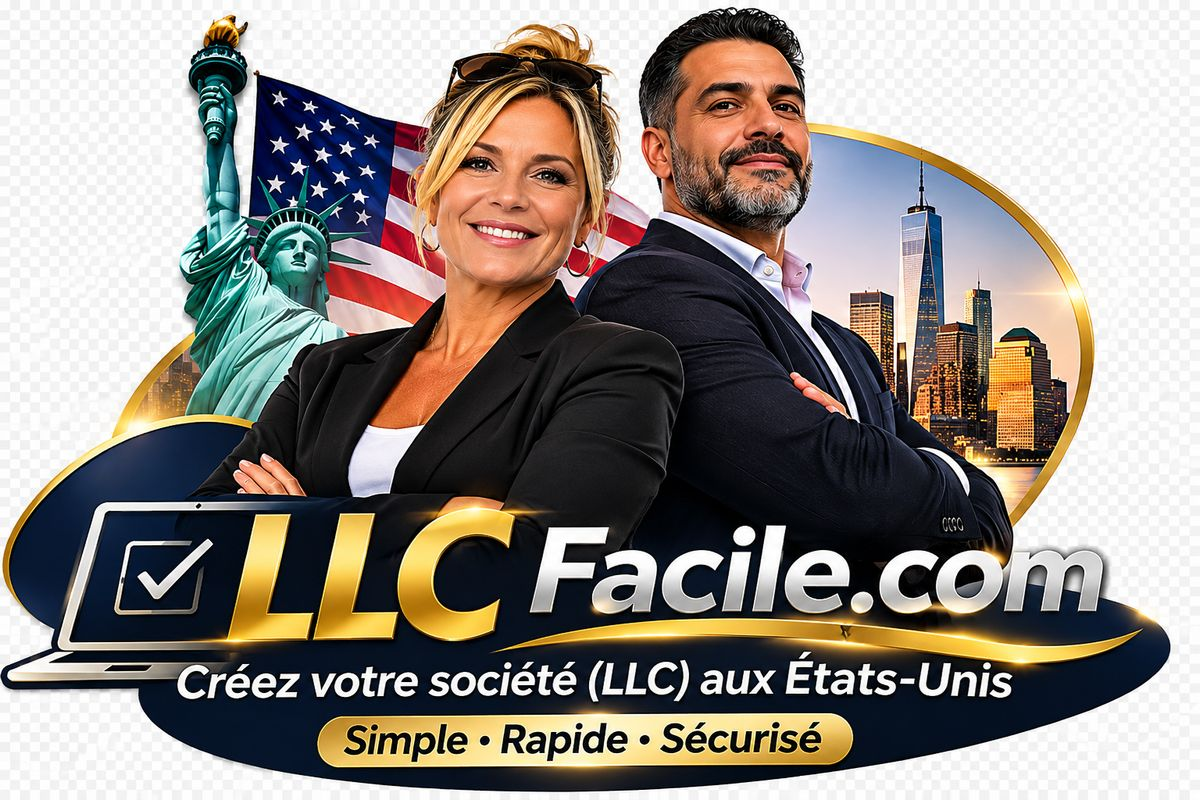
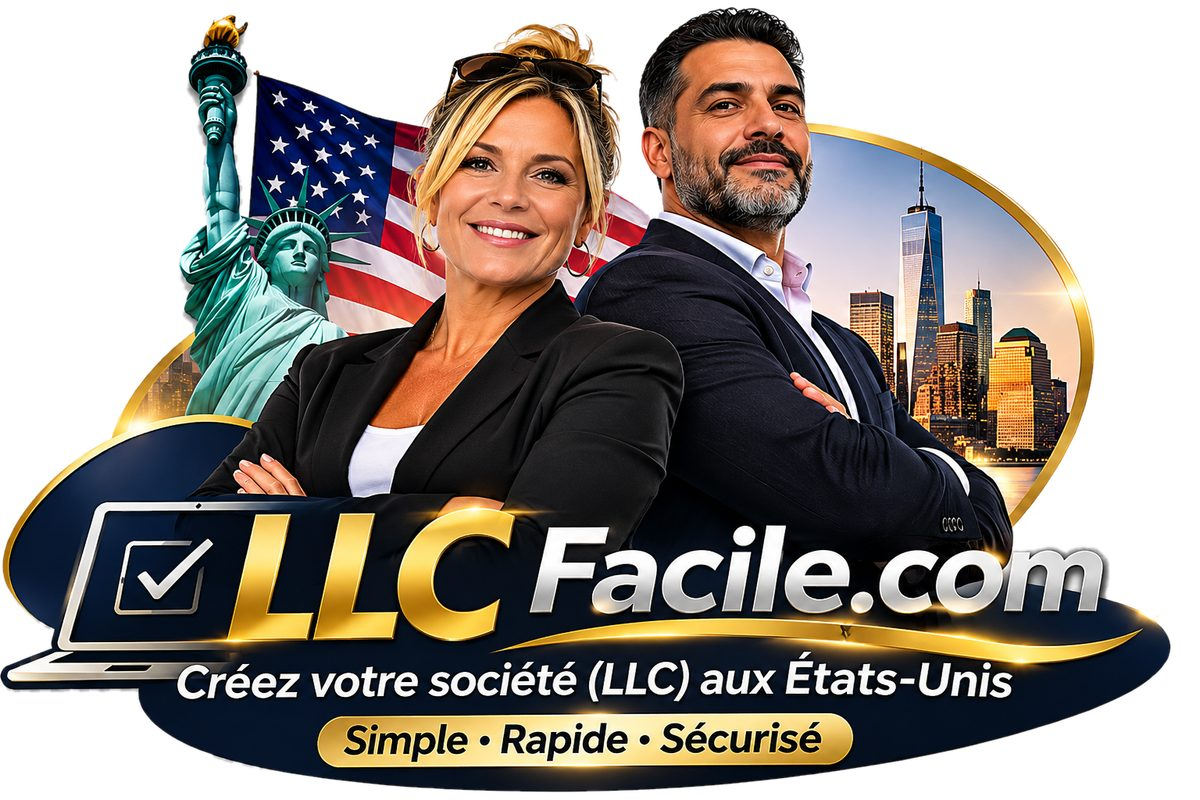
Visuel d'accueil sans fond en damier
Claude-Session: https://claude.ai/code/session_014x93Hu9MxY4HDTCaYv97ZG

diff --git a/ar/index.html b/ar/index.html
@@ -52,7 +52,7 @@
 <a class="btn btn-line" href="/ar/tarifs">شوف الأثمنة</a></div>
 <ul class="ticks"><li><svg width="18" height="18" viewBox="0 0 24 24" fill="none" stroke="#8A6514" stroke-width="2.5" stroke-linecap="round" stroke-linejoin="round" aria-hidden="true"><path d="M5 12l5 5L20 7"></path></svg>بلا فيزا وبلا سفر</li><li><svg width="18" height="18" viewBox="0 0 24 24" fill="none" stroke="#8A6514" stroke-width="2.5" stroke-linecap="round" stroke-linejoin="round" aria-hidden="true"><path d="M5 12l5 5L20 7"></path></svg>مصاريف الولاية داخلة</li><li><svg width="18" height="18" viewBox="0 0 24 24" fill="none" stroke="#8A6514" stroke-width="2.5" stroke-linecap="round" stroke-linejoin="round" aria-hidden="true"><path d="M5 12l5 5L20 7"></path></svg>ثمن ثابت، بلا مفاجآت</li></ul>
 </div>
-<div class="pic"><img src="/hero.jpg" width="1200" height="800" fetchpriority="high" alt="LLC Facile – دير شركتك LLC فالولايات المتحدة. ساهل، سريع، مضمون."></div>
+<div class="pic"><img src="/hero.jpg?v=2" width="1200" height="800" fetchpriority="high" alt="LLC Facile – دير شركتك LLC فالولايات المتحدة. ساهل، سريع، مضمون."></div>
 </div></section>
 <section class="band white" style="border-top:0"><div class="wrap">
 <div class="head"><span class="kicker">لمن هادشي؟</span><h2>مدير للمقاولين اللي كيبيعو أونلاين</h2></div>

diff --git a/index.html b/index.html
@@ -52,7 +52,7 @@
 <a class="btn btn-line" href="/tarifs">Voir les tarifs</a></div>
 <ul class="ticks"><li><svg width="18" height="18" viewBox="0 0 24 24" fill="none" stroke="#8A6514" stroke-width="2.5" stroke-linecap="round" stroke-linejoin="round" aria-hidden="true"><path d="M5 12l5 5L20 7"></path></svg>Pas besoin de visa ni de voyage</li><li><svg width="18" height="18" viewBox="0 0 24 24" fill="none" stroke="#8A6514" stroke-width="2.5" stroke-linecap="round" stroke-linejoin="round" aria-hidden="true"><path d="M5 12l5 5L20 7"></path></svg>Frais d&#x27;État inclus</li><li><svg width="18" height="18" viewBox="0 0 24 24" fill="none" stroke="#8A6514" stroke-width="2.5" stroke-linecap="round" stroke-linejoin="round" aria-hidden="true"><path d="M5 12l5 5L20 7"></path></svg>Prix fixe, sans surprise</li></ul>
 </div>
-<div class="pic"><img src="/hero.jpg" width="1200" height="800" fetchpriority="high" alt="LLC Facile – Créez votre société (LLC) aux États-Unis. Simple, rapide, sécurisé."></div>
+<div class="pic"><img src="/hero.jpg?v=2" width="1200" height="800" fetchpriority="high" alt="LLC Facile – Créez votre société (LLC) aux États-Unis. Simple, rapide, sécurisé."></div>
 </div></section>
 <section class="band white" style="border-top:0"><div class="wrap">
 <div class="head"><span class="kicker">Pour qui ?</span><h2>Pensé pour les entrepreneurs francophones qui vendent en ligne</h2></div>

diff --git a/en/index.html b/en/index.html
@@ -52,7 +52,7 @@
 <a class="btn btn-line" href="/en/pricing">See pricing</a></div>
 <ul class="ticks"><li><svg width="18" height="18" viewBox="0 0 24 24" fill="none" stroke="#8A6514" stroke-width="2.5" stroke-linecap="round" stroke-linejoin="round" aria-hidden="true"><path d="M5 12l5 5L20 7"></path></svg>No visa, no travel</li><li><svg width="18" height="18" viewBox="0 0 24 24" fill="none" stroke="#8A6514" stroke-width="2.5" stroke-linecap="round" stroke-linejoin="round" aria-hidden="true"><path d="M5 12l5 5L20 7"></path></svg>State fees included</li><li><svg width="18" height="18" viewBox="0 0 24 24" fill="none" stroke="#8A6514" stroke-width="2.5" stroke-linecap="round" stroke-linejoin="round" aria-hidden="true"><path d="M5 12l5 5L20 7"></path></svg>Fixed price, no surprises</li></ul>
 </div>
-<div class="pic"><img src="/hero.jpg" width="1200" height="800" fetchpriority="high" alt="LLC Facile – Form your company (LLC) in the United States. Simple, fast, secure."></div>
+<div class="pic"><img src="/hero.jpg?v=2" width="1200" height="800" fetchpriority="high" alt="LLC Facile – Form your company (LLC) in the United States. Simple, fast, secure."></div>
 </div></section>
 <section class="band white" style="border-top:0"><div class="wrap">
 <div class="head"><span class="kicker">Who is it for?</span><h2>Built for entrepreneurs who sell online</h2></div>

diff --git a/tools/build.py b/tools/build.py
@@ -249,7 +249,7 @@ def p_home(lang):
 <a class="btn btn-line" href="{href(lang, "pricing")}">{e(h["see_prices"])}</a></div>
 <ul class="ticks">{ticks}</ul>
 </div>
-<div class="pic"><img src="/hero.jpg" width="1200" height="800" fetchpriority="high" alt="{e(h["img_alt"])}"></div>
+<div class="pic"><img src="/hero.jpg?v=2" width="1200" height="800" fetchpriority="high" alt="{e(h["img_alt"])}"></div>
 </div></section>
 <section class="band white" style="border-top:0"><div class="wrap">
 <div class="head"><span class="kicker">{e(h["who_k"])}</span><h2>{e(h["who_t"])}</h2></div>
